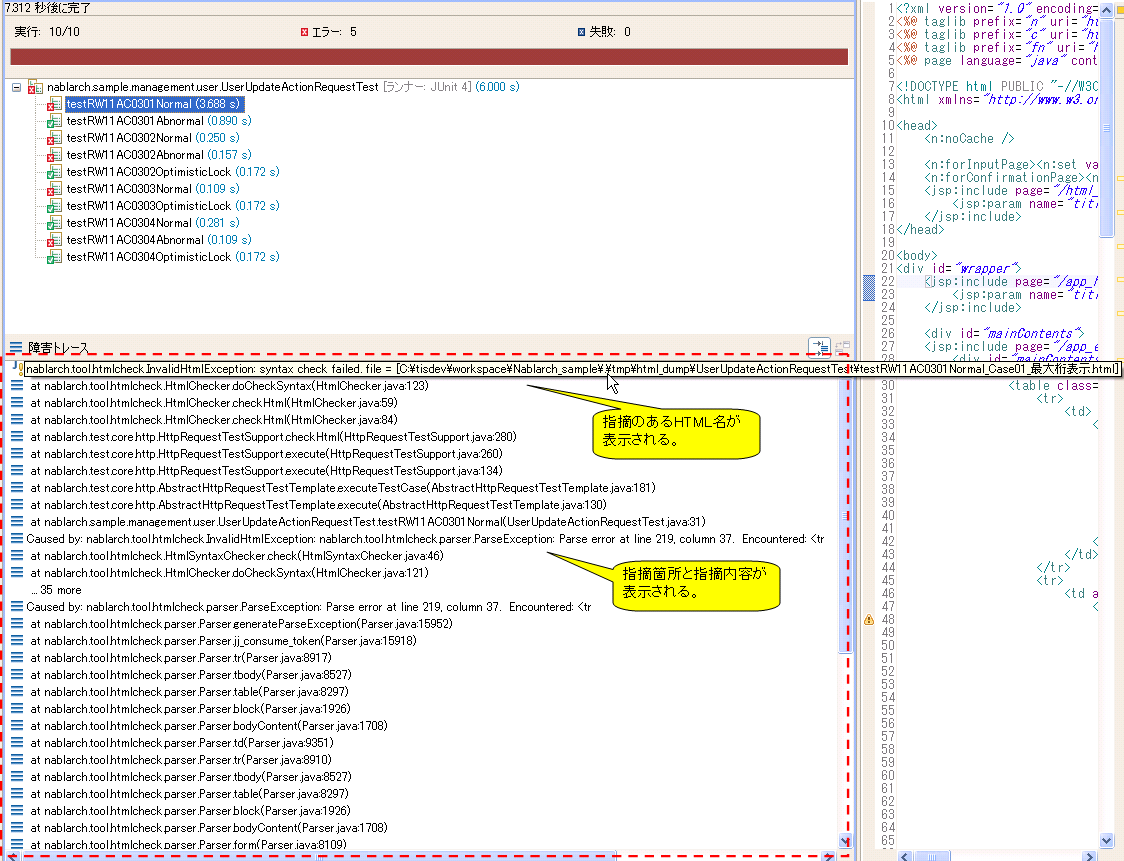
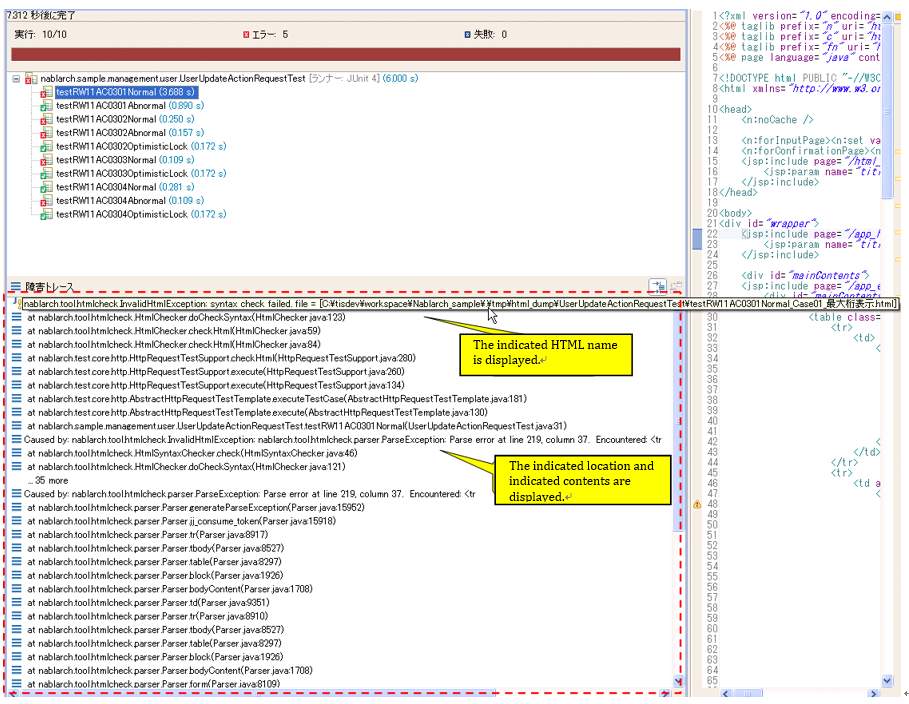
03_HtmlCheckToolの翻訳ミスを修正

Changed region(s): [[0.0, 0.0, 1.0, 1.0]]

diff --git a/en/development_tools/testing_framework/guide/development_guide/08_TestTools/03_HtmlCheckTool/index.rst b/en/development_tools/testing_framework/guide/development_guide/08_TestTools/03_HtmlCheckTool/index.rst
@@ -27,13 +27,13 @@ This tool is available in the Request Unit Test as a standard and is executed wh
 * The boolean attribute can be used. Example: <textarea disabled>
 * Omitting quotations in the attribute specification is not allowed. Example: ○ <table align="center"> × <table align=center>
 
-.. [#] 設定値の変更により、チェック内容がカスタマイズできる。
+.. [#] The check contents can be customized by changing the configuration values. ↩。
 
-.. [#] 一部例外あり。次項『\ `Differences with HTML4.01`_ 』を参照。
+.. [#] There are some exceptions. See the next section, \ `Differences with HTML4.01`_ . 
 
 .. [#]
-  デフォルトの設定では、 `W3C公式サイト <http://www.w3.org/TR/html401/>`_ にて非推奨とされているタグ・属性(以下では、「非推奨タグ・属性」と略記する)が設定されている。
-  設定ファイルをカスタマイズすることにより、使用を禁止するタグ・属性を変更することができる。（カスタマイズ方法は :ref:`01_custom` を参照のこと。）
+  The tags and attributes that are deprecated on the  `W3C official website <http://www.w3.org/TR/html401/>`_  (hereinafter abbreviated as "deprecated tags and attributes") are configured by default. 
+  By customizing the configuration file, the tags and attributes that should not be used can be changed. (For customization instructions, refer to :ref:`01_custom`.) 
 
 .. tip::
 
